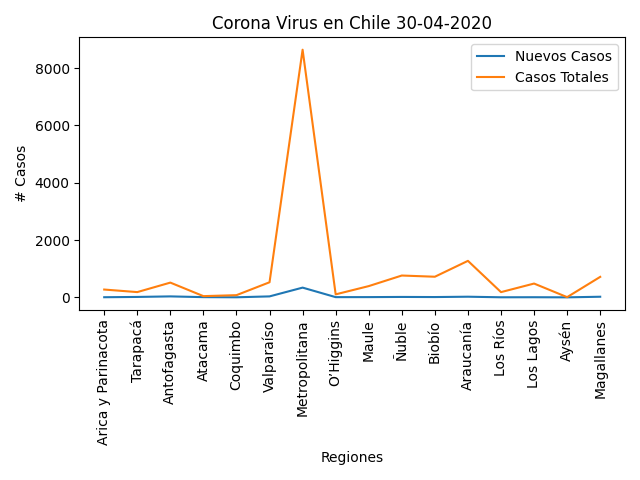
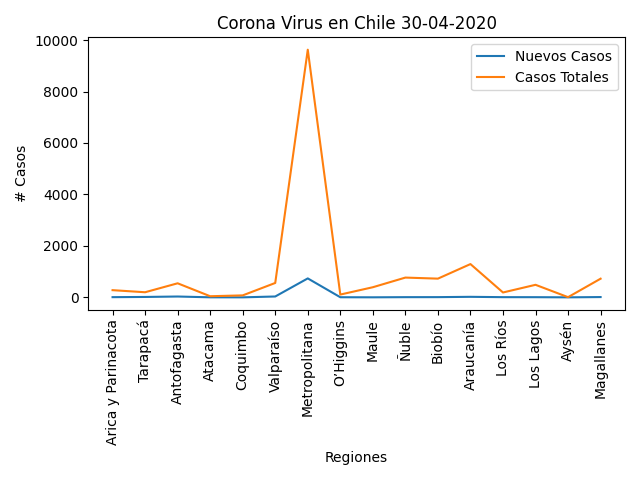
updating

diff --git a/corona.py b/corona.py
@@ -44,7 +44,7 @@ for tr in soup.find_all("tr")[1:]:
 
 
 #transforming scraped data(text) into a dataframe with new columns
-df = pd.DataFrame(rows, columns =  ['Region', 'Nuevos Casos', 'Nuevos Casos 2 sin sintomas', 'Casos Totales','% Casos totales','Fallecidos','Tasa *100','Incremento Diario'])
+df = pd.DataFrame(rows, columns =  ['Region','Casos Totales', 'Nuevos Casos', 'Nuevos Casos con sintomas', 'Nuevos Casos sin sintomas' ,'Fallecidos','% Casos totales'])
 
 
 #getting recuperados
@@ -79,15 +79,14 @@ df.dtypes
 #removing . in thousand separator
 df['Casos Totales'] = df['Casos Totales'].str.replace(".","")
 
-
-#removing * from nuevs casos 2
-df['Nuevos Casos 2 sin sintomas'] = df['Nuevos Casos 2 sin sintomas'].str.replace("*","")
-
+#removing . in thousand separator
+df['Nuevos Casos'] = df['Nuevos Casos'].str.replace(".","")
 
 
 # Convert everything to float values
 df['Nuevos Casos']= df['Nuevos Casos'].astype(float)
-df['Nuevos Casos 2']= df['Nuevos Casos 2 sin sintomas'].astype(float)
+df['Nuevos Casos con sintomas']= df['Nuevos Casos con sintomas'].astype(float)
+df['Nuevos Casos sin sintomas']= df['Nuevos Casos sin sintomas'].astype(float)
 df['Casos Totales']= df['Casos Totales'].astype(float)
 df['Fallecidos']= df['Fallecidos'].astype(float)
 df['Recuperados']= df['Recuperados'].astype(float)

diff --git a/Paises.py b/Paises.py
@@ -43,7 +43,7 @@ for tr in soup2.find_all("tr")[1:]:
     
 
 #transforming scraped data(text) into a dataframe with new columns
-df = pd.DataFrame(rows, columns =  ['Country', 'Total Cases', 'New Cases','Total Deaths','New Deaths','Total Recovered','Active Cases','Serious,Critical' , 'Total Cases/1M pop','Total Deaths/1M pop','Total Tests','Tests/1M pop','Country Again'])
+df = pd.DataFrame(rows, columns =  ['#','Country','Total Cases', 'New Cases','Total Deaths','New Deaths','Total Recovered','Active Cases','Serious,Critical' , 'Total Cases/1M pop','Total Deaths/1M pop','Total Tests','Tests/1M pop','Population','Continent'])
 
 
 #slicing DF with only Southamerican Countries

diff --git a/covid.py b/covid.py
@@ -32,7 +32,7 @@ default_args = {
 }
 
 
-PARENT_DAG_NAME = 'COVID19_Chile2'
+PARENT_DAG_NAME = 'COVID19_Chile1'
 
 # def branch_func(**kwargs):
 #     ti = kwargs['ti']
@@ -46,7 +46,7 @@ PARENT_DAG_NAME = 'COVID19_Chile2'
 #         return 'stop_task'
 
 
-dag = DAG(dag_id=PARENT_DAG_NAME, default_args=default_args, schedule_interval='15 15 * * *',start_date=datetime(2020, 4, 9))
+dag = DAG(dag_id=PARENT_DAG_NAME, default_args=default_args, schedule_interval='05 15 * * *',start_date=datetime(2020, 4, 27))
 
 # task1
 task1 = BashOperator(task_id="minsal_check",
